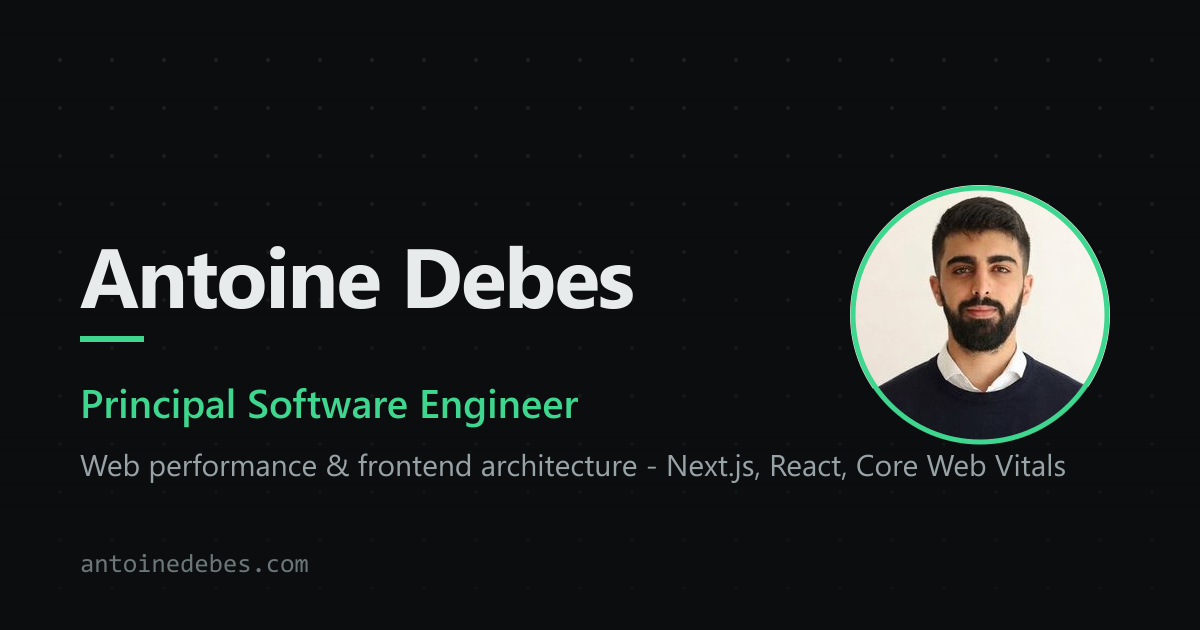
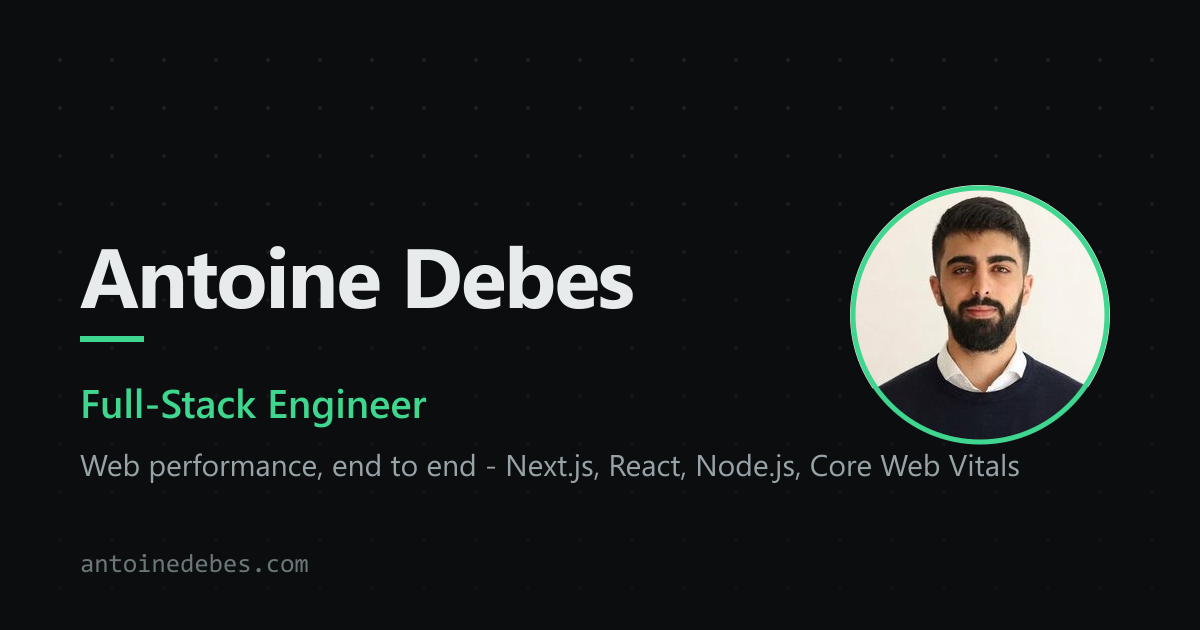
Reposition as Full-Stack Engineer; VML role stays front-end
Site identity is now Full-Stack Engineer across the title tag, meta
description, OG/Twitter cards, share images, web manifest and the sidebar
headline, with web performance kept as the specialty rather than the
whole story.

Experience reflects the actual titles: VML remains Principal Front-End
Engineer (also the schema jobTitle, so it matches LinkedIn for entity
resolution), while Wunderman Thompson and Mirum become Senior and
Mid-Senior Full-Stack Engineer, with descriptions widened past the
front end.

Stack regrouped to back the claim up — a "full-stack" headline over a
frontend-only skill list reads as a stretch. Frontend / Backend & Data /
Platforms & CMS / Motion & 3D / Tooling & Infra, restoring the Node,
C#/.NET, PHP and MySQL that the previous site listed.

Budgets green across 11 routes; all 41 asset references resolve.

Changed region(s): [[0.0617, 0.6032, 0.4933, 0.6937], [0.2467, 0.7238, 0.8942, 0.754]]

diff --git a/src/app/layout.tsx b/src/app/layout.tsx
@@ -16,11 +16,11 @@ const geistMono = Geist_Mono({
 });
 
 const description =
-  "Principal Software Engineer specializing in web performance and frontend architecture — Next.js, React, Core Web Vitals. I make React apps fast.";
+  "Full-Stack Engineer specializing in web performance — Next.js, React, Node.js, Core Web Vitals. I build fast, measurable web platforms end to end.";
 
 export const metadata: Metadata = {
   title: {
-    default: "Antoine Debes — Principal Software Engineer · Web Performance",
+    default: "Antoine Debes — Full-Stack Engineer · Web Performance",
     template: "%s · Antoine Debes",
   },
   description,
@@ -30,7 +30,8 @@ export const metadata: Metadata = {
     "React",
     "Next.js",
     "Frontend Architecture",
-    "Principal Software Engineer",
+    "Full-Stack Engineer",
+    "Principal Front-End Engineer",
     "TypeScript",
     "Portfolio",
   ],
@@ -51,7 +52,7 @@ export const metadata: Metadata = {
     type: "website",
     locale: "en_US",
     url: "https://antoinedebes.com",
-    title: "Antoine Debes — Principal Software Engineer · Web Performance",
+    title: "Antoine Debes — Full-Stack Engineer · Web Performance",
     description,
     siteName: "Antoine Debes",
     images: [
@@ -59,13 +60,13 @@ export const metadata: Metadata = {
         url: "/og.png",
         width: 1200,
         height: 630,
-        alt: "Antoine Debes — Principal Software Engineer · Web Performance",
+        alt: "Antoine Debes — Full-Stack Engineer · Web Performance",
       },
     ],
   },
   twitter: {
     card: "summary_large_image",
-    title: "Antoine Debes — Principal Software Engineer · Web Performance",
+    title: "Antoine Debes — Full-Stack Engineer · Web Performance",
     description,
     images: ["/og.png"],
   },
@@ -134,7 +135,7 @@ const personJsonLd = {
   name: "Antoine Debes",
   givenName: "Antoine",
   familyName: "Debes",
-  jobTitle: "Principal Software Engineer",
+  jobTitle: "Principal Front-End Engineer",
   description,
   url: "https://antoinedebes.com",
   image: "https://antoinedebes.com/profile-512.webp",
@@ -162,6 +163,8 @@ const personJsonLd = {
     "React",
     "Next.js",
     "TypeScript",
+    "Node.js",
+    "Full-Stack Development",
     "Frontend Architecture",
     "Sitecore Headless",
   ],

diff --git a/src/components/Timeline.tsx b/src/components/Timeline.tsx
@@ -10,7 +10,7 @@ type Role = {
 
 const roles: Role[] = [
   {
-    title: "Principal Software Engineer",
+    title: "Principal Front-End Engineer",
     org: "VML",
     period: "Feb 2024 — Present",
     description:
@@ -18,19 +18,19 @@ const roles: Role[] = [
     tags: ["Next.js", "TypeScript", "Sitecore JSS", "Web Performance"],
   },
   {
-    title: "Senior Software Engineer",
+    title: "Senior Full-Stack Engineer",
     org: "Wunderman Thompson (became VML)",
     period: "Oct 2023 — Jan 2024",
     description:
-      "Implemented front-end solutions in TypeScript/Next.js, optimized build and release flows, and contributed to design systems and experimentation tooling.",
+      "Delivered features across the stack in TypeScript/Next.js and Node, optimized build and release flows, and contributed to design systems and experimentation tooling.",
     tags: ["Next.js", "TypeScript", "Design Systems"],
   },
   {
-    title: "Mid-Senior Software Engineer",
+    title: "Mid-Senior Full-Stack Engineer",
     org: "Mirum Agency (became Wunderman Thompson)",
     period: "Oct 2022 — Sep 2023",
     description:
-      "Built modern, responsive interfaces, introduced animation best practices with GSAP and Three.js, and streamlined team workflows with tooling and testing improvements.",
+      "Built full-stack features — responsive interfaces backed by CMS and API work — introduced animation best practices with GSAP and Three.js, and streamlined team workflows with tooling and testing improvements.",
     tags: ["React", "GSAP", "Three.js"],
   },
 ];

diff --git a/src/app/page.tsx b/src/app/page.tsx
@@ -56,7 +56,8 @@ export default function Home() {
           <Section id="about" title="About">
             <div className="max-w-xl space-y-4 text-[17px] leading-relaxed text-gray-700 dark:text-white/85">
               <p>
-                I&apos;m a Principal Software Engineer at{" "}
+                I&apos;m a full-stack engineer, currently Principal
+                Front-End Engineer at{" "}
                 <a
                   href="https://www.vml.com"
                   target="_blank"
@@ -71,9 +72,11 @@ export default function Home() {
                 New Murabba, and the Expo 2030 Riyadh bid among them.
               </p>
               <p>
-                My specialty is web performance: making React and Next.js
-                applications fast, and keeping them that way with budgets that
-                fail the build instead of guidelines that die in a wiki. I care
+                I work across the stack — React and Next.js on the front,
+                Node and headless CMS platforms behind them — and my specialty
+                is web performance: making those applications fast, and keeping
+                them that way with budgets that fail the build instead of
+                guidelines that die in a wiki. I care
                 about the parts of engineering you can measure — Core Web
                 Vitals, bundle bytes, main-thread time — and about the craft
                 you can feel in the details.

diff --git a/src/components/Skills.tsx b/src/components/Skills.tsx
@@ -2,22 +2,20 @@ import React from "react";
 
 const groups: { label: string; items: string[] }[] = [
   {
-    label: "Core",
-    items: ["TypeScript", "JavaScript", "React", "Next.js", "Node.js"],
+    label: "Frontend",
+    items: ["TypeScript", "JavaScript", "React", "Next.js", "Tailwind CSS", "SASS"],
   },
   {
-    label: "Styling & Motion",
-    items: ["Tailwind CSS", "SASS", "GSAP", "Three.js"],
+    label: "Backend & Data",
+    items: ["Node.js", "C# / .NET", "PHP", "MySQL", "GraphQL"],
   },
   {
     label: "Platforms & CMS",
-    items: [
-      "Sitecore Headless",
-      "Payload CMS",
-      "WordPress",
-      "Optimizely",
-      "GraphQL",
-    ],
+    items: ["Sitecore Headless", "Payload CMS", "WordPress", "Optimizely"],
+  },
+  {
+    label: "Motion & 3D",
+    items: ["GSAP", "Three.js"],
   },
   {
     label: "Tooling & Infra",

diff --git a/src/components/Sidebar.tsx b/src/components/Sidebar.tsx
@@ -23,11 +23,11 @@ export default function Sidebar() {
           Antoine Debes
         </h1>
         <h2 className="mt-2 text-xl font-medium text-gray-800 dark:text-white/90">
-          Principal Software Engineer
+          Full-Stack Engineer
         </h2>
         <p className="mt-3 max-w-xs text-[15px] leading-relaxed text-gray-600 dark:text-white/75">
-          I make React apps fast — web performance &amp; frontend architecture
-          for Next.js, measured in Core Web Vitals.
+          I build fast web platforms end to end — Next.js, React and Node,
+          measured in Core Web Vitals.
         </p>
         <ScrollSpyNav />
       </div>
